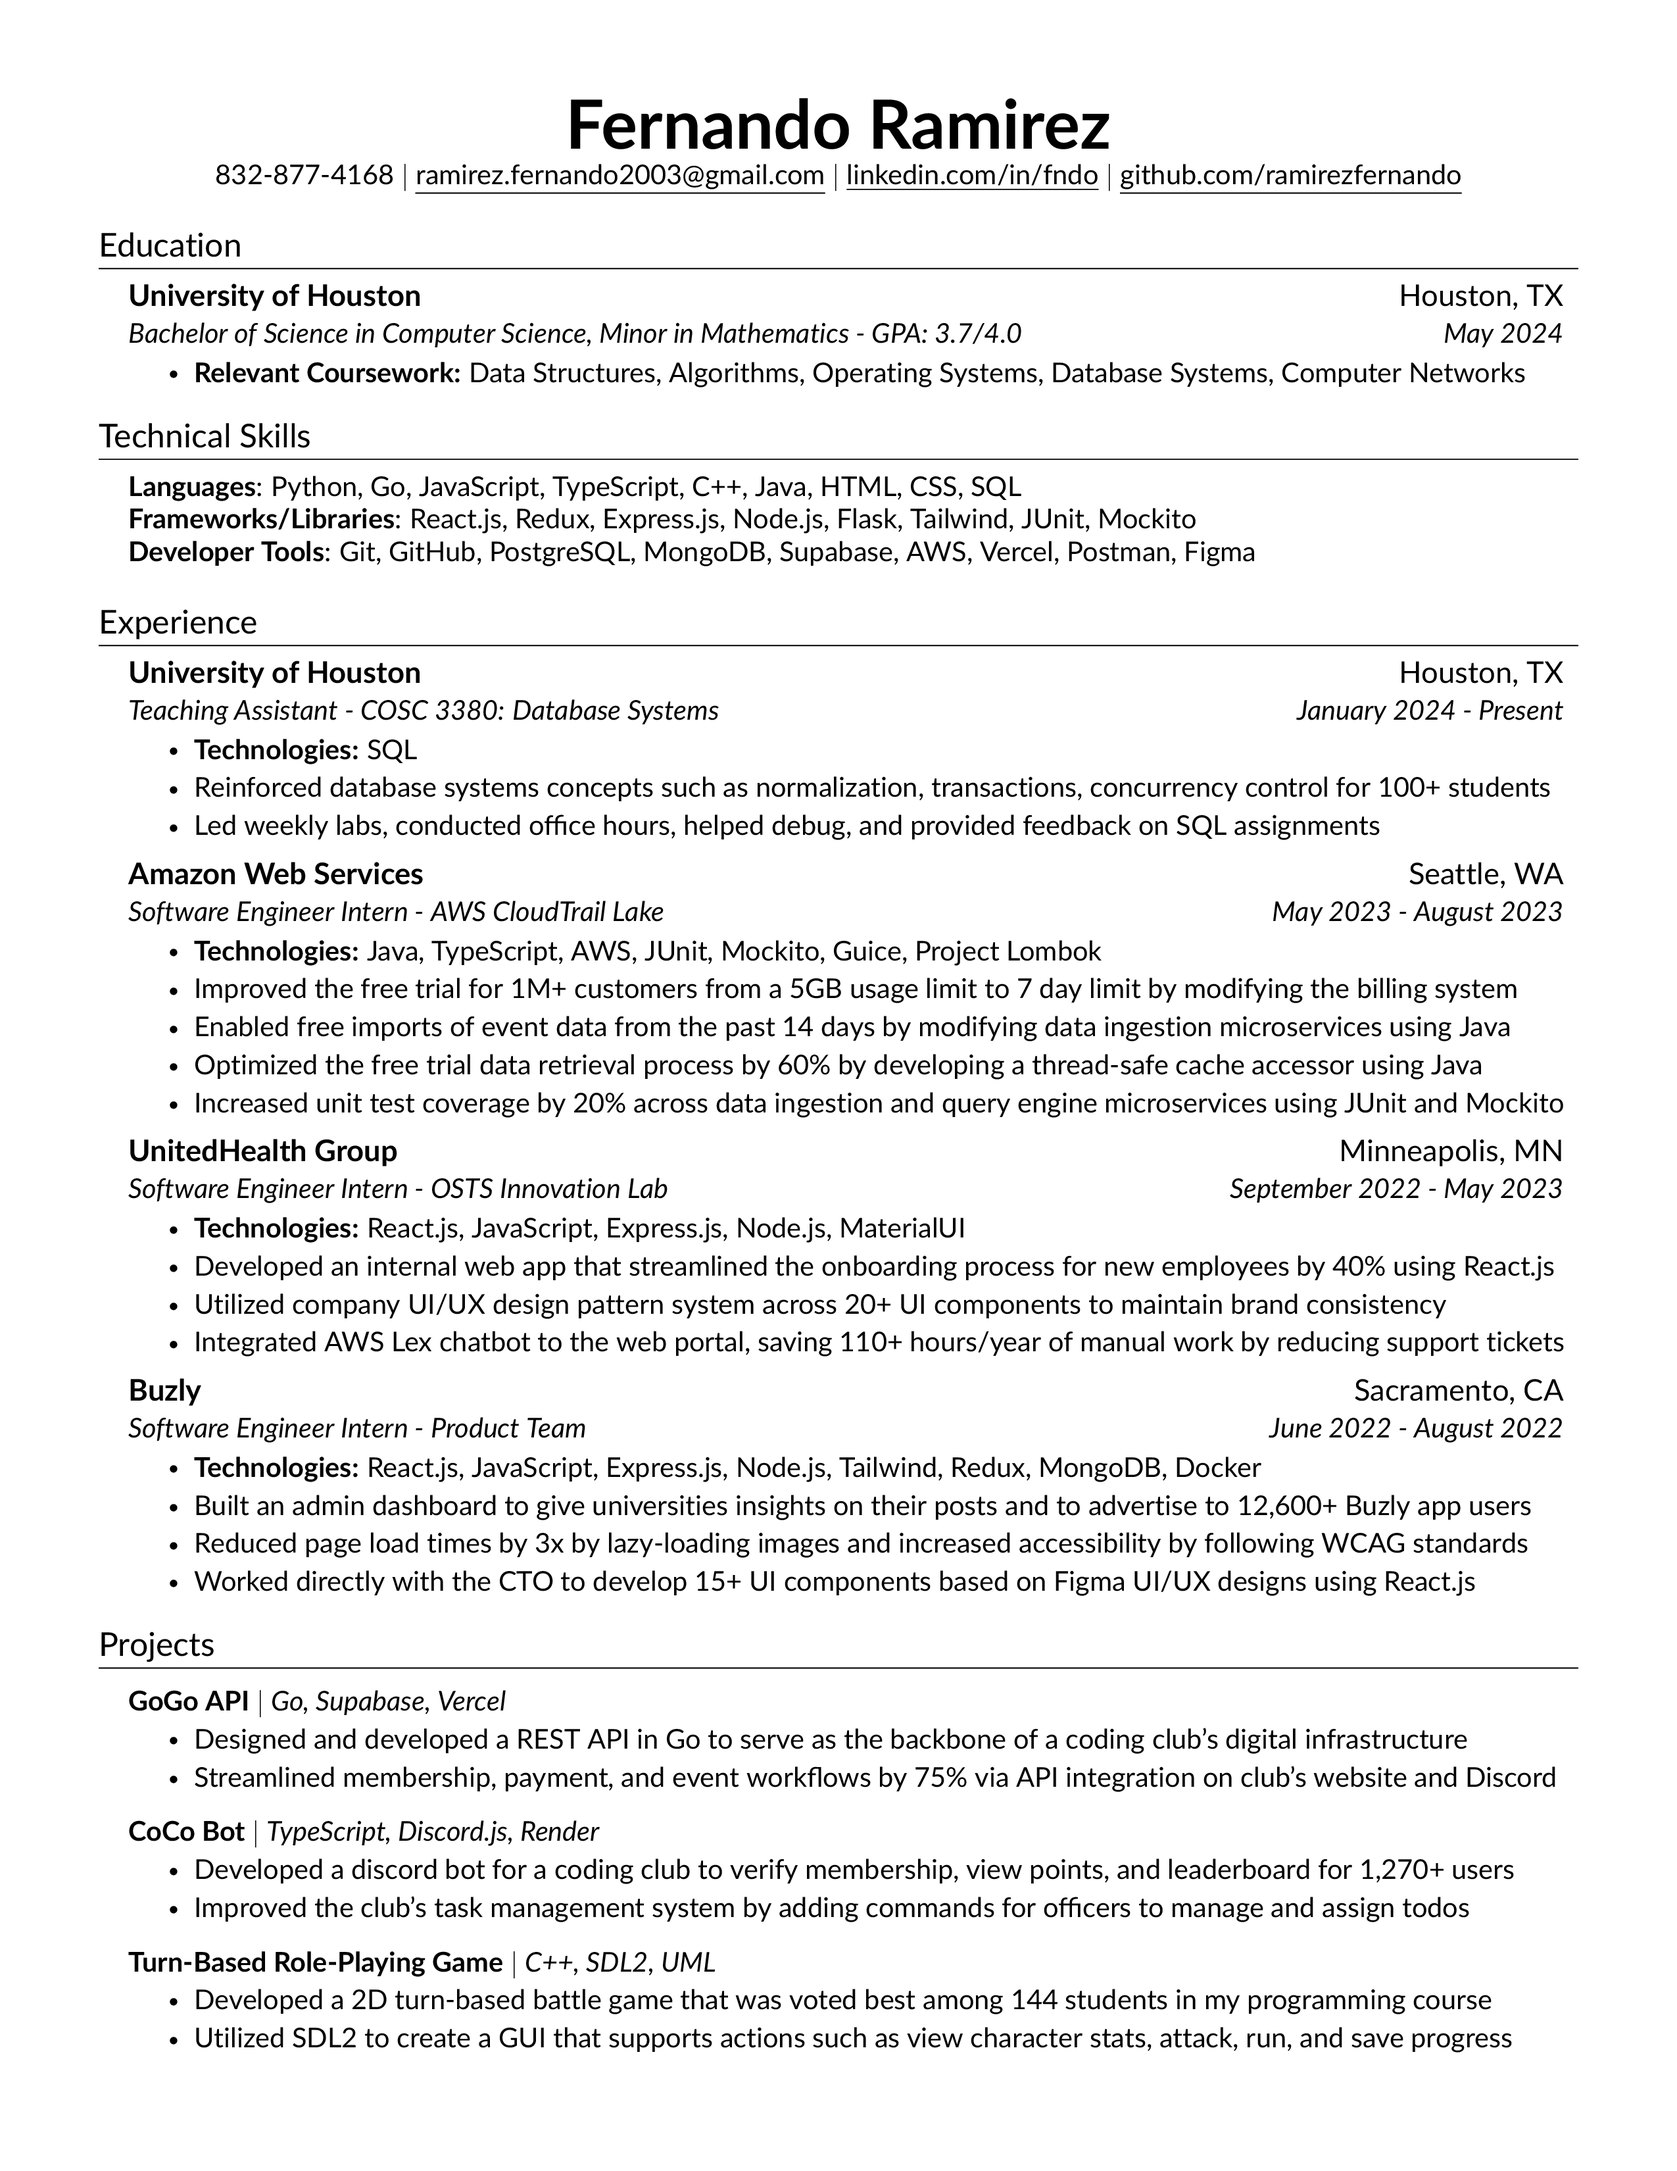
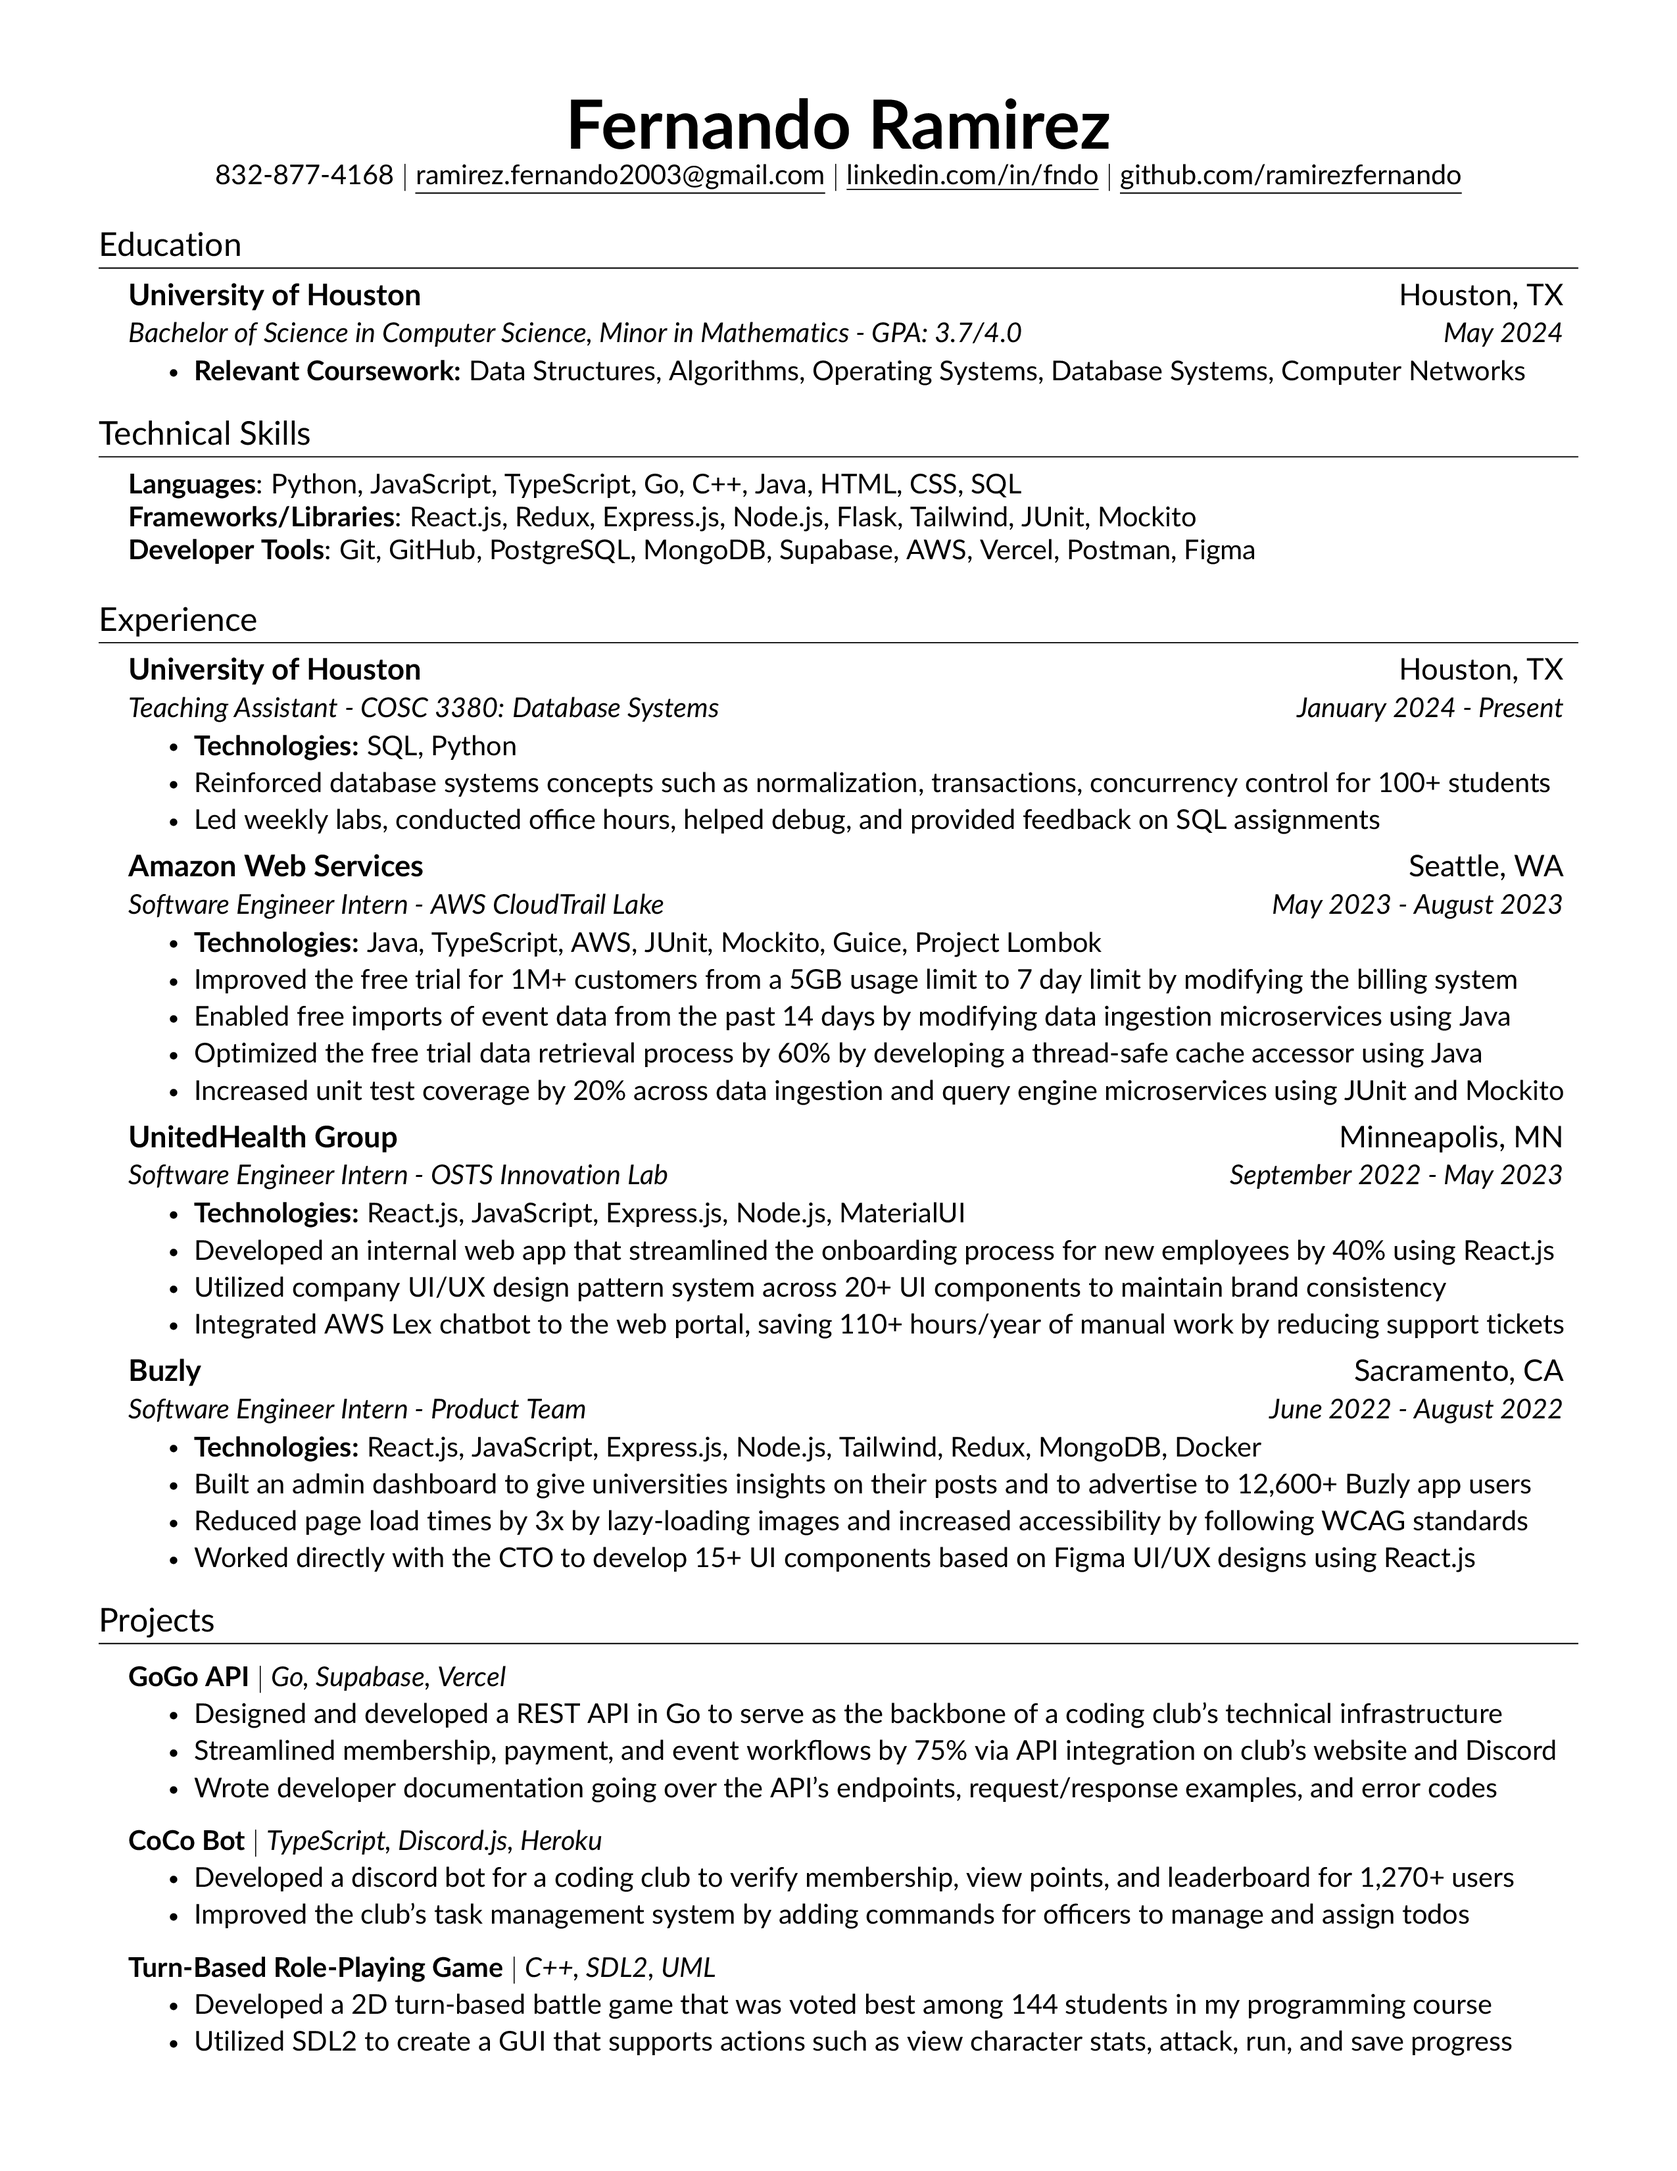
update resume

diff --git a/src/components/projects.tex b/src/components/projects.tex
@@ -5,12 +5,13 @@
     \resumeProjectHeading
     {\textbf{GoGo API} $|$ \emph{Go, Supabase, Vercel}}{}
     \resumeItemListStart
-        \resumeItem{Designed and developed a REST API in Go to serve as the backbone of a coding club's digital infrastructure}
+        \resumeItem{Designed and developed a REST API in Go to serve as the backbone of a coding club's technical infrastructure}
         \resumeItem{Streamlined membership, payment, and event workflows by 75\% via API integration on club's website and Discord}
+        \resumeItem{Wrote developer documentation going over the API's endpoints, request/response examples, and error codes}
     \resumeItemListEnd
 
     \resumeProjectHeading
-    {\textbf{CoCo Bot} $|$ \emph{TypeScript, Discord.js, Render}}{}
+    {\textbf{CoCo Bot} $|$ \emph{TypeScript, Discord.js, Heroku}}{}
     \resumeItemListStart
         \resumeItem{Developed a discord bot for a coding club to verify membership, view points, and leaderboard for 1,270+ users}
         \resumeItem{Improved the club's task management system by adding commands for officers to manage and assign todos}

diff --git a/src/components/skills.tex b/src/components/skills.tex
@@ -2,7 +2,7 @@
 \section{Technical Skills}
 \begin{itemize}[leftmargin=0.15in, label={}]
     \small{\item{     
-        \textbf{Languages}{: Python, Go, JavaScript, TypeScript, C++, Java, HTML, CSS, SQL} \\
+        \textbf{Languages}{: Python, JavaScript, TypeScript, Go, C++, Java, HTML, CSS, SQL} \\
      
         \textbf{Frameworks/Libraries}{: React.js, Redux, Express.js, Node.js, Flask, Tailwind, JUnit, Mockito} \\
 

diff --git a/src/components/experience.tex b/src/components/experience.tex
@@ -5,7 +5,7 @@
     {University of Houston}{Houston, TX}
     {Teaching Assistant - COSC 3380: Database Systems}{January 2024 - Present}
     \resumeItemListStart
-        \resumeItem{\textbf{Technologies:} SQL}
+        \resumeItem{\textbf{Technologies:} SQL, Python}
 
         \resumeItem{Reinforced database systems concepts such as normalization, transactions, concurrency control for 100+ students} 
 
